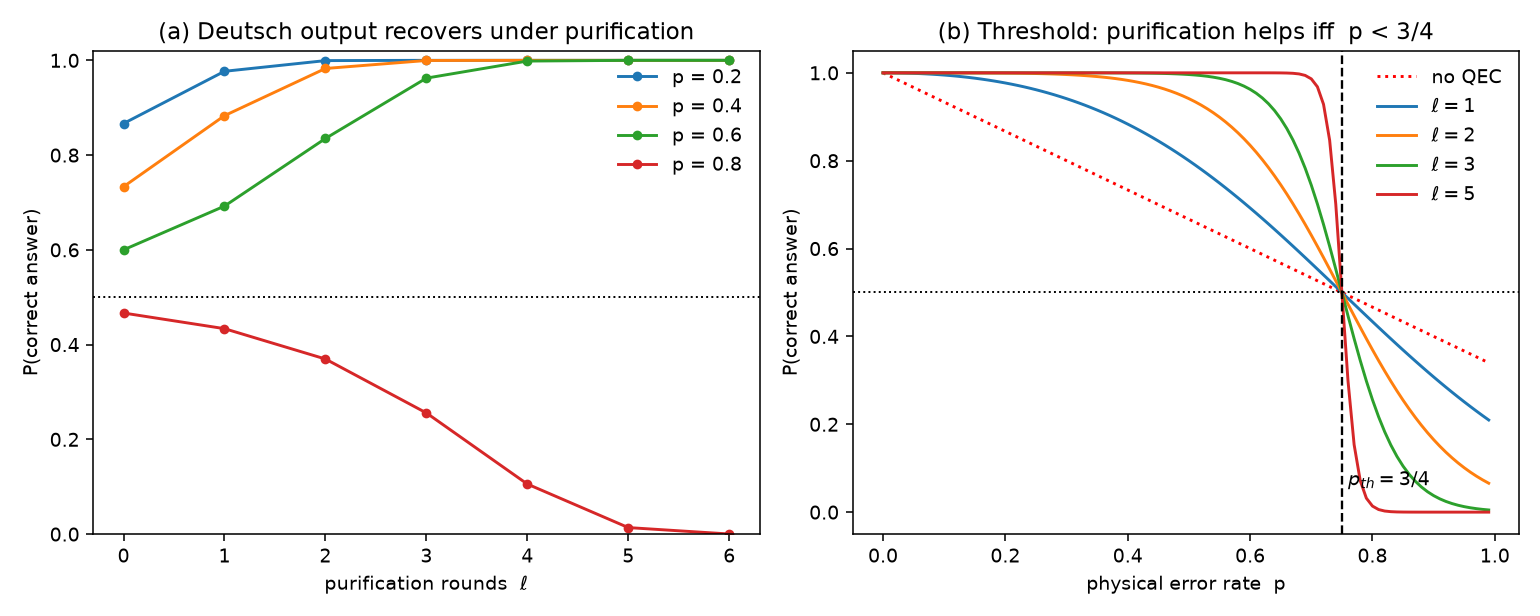
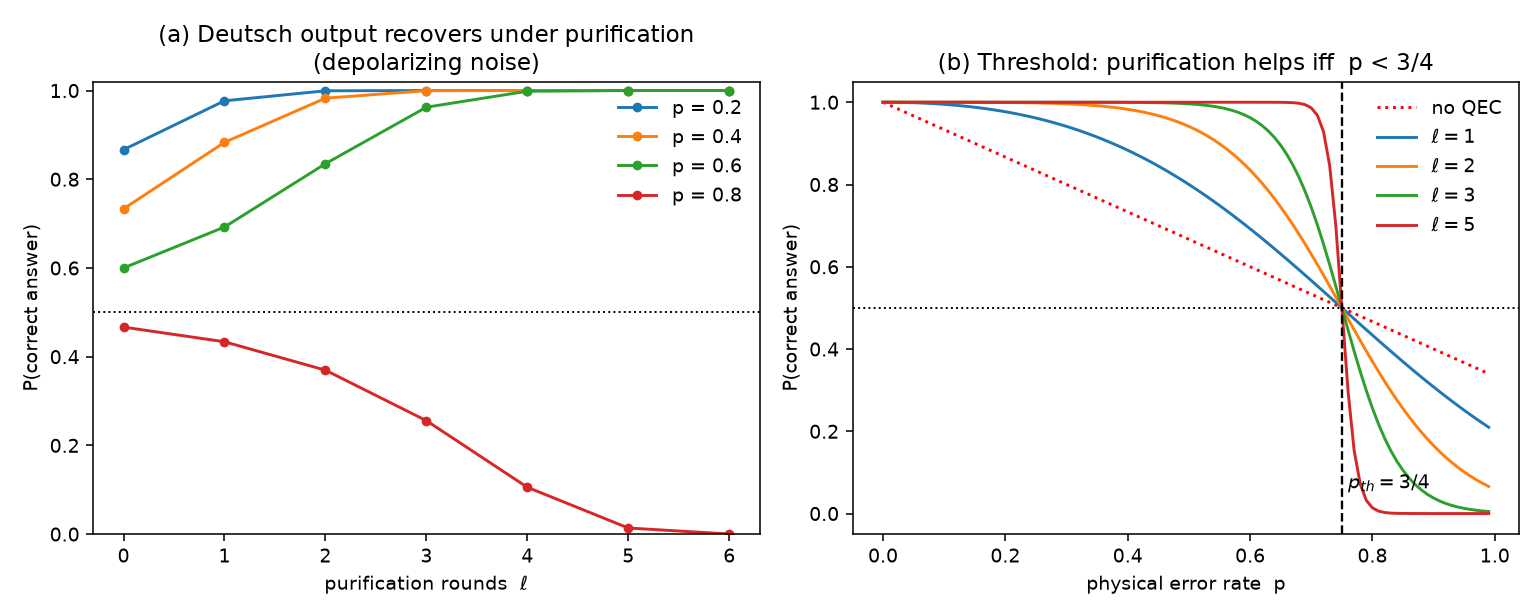
Add bit-flip PQEC demo for the Deutsch algorithm (threshold 1/2)
Parametrize deutsch_pqec.py by the output-qubit noise channel via run_demo()
(default depolarizing, p_th=3/4, output unchanged). Add deutsch_pqec_bitflip.py
which reuses it with a bit-flip channel: the answer stays the dominant
eigenvector while p<1/2, so purification recovers P(correct) 0.70 -> 1.000 and
the measured threshold is 0.500. Update README and PROGRESS with the
channel/threshold comparison and the new figure.

diff --git a/deutsch_pqec.py b/deutsch_pqec.py
@@ -26,15 +26,18 @@ is below threshold the *correct* answer is still the dominant eigenvector, so
 purifying the output drives the success probability back toward 1 -- without
 the algorithm ever knowing which answer is correct.
 
-For the local depolarizing channel the threshold is p = 3/4, identical to the
-elementary PQEC gadget in the parent paper: below it purification helps, above
-it purification amplifies the *wrong* answer.
+The threshold depends on the channel:
 
-We reuse the genuine PennyLane SWAP-gadget circuit from pqec.py to perform the
-purification rounds, so the whole pipeline -- noisy algorithm + error
-correction -- is a real mixed-state simulation, not an algebraic shortcut.
+  * local depolarizing on the output qubit ->  p_th = 3/4
+  * bit-flip on the output qubit           ->  p_th = 1/2   (deutsch_pqec_bitflip.py)
 
-Run:  python deutsch_pqec.py
+The whole pipeline (noisy algorithm + purification) reuses the genuine
+PennyLane SWAP-gadget circuit from pqec.py, so it is a real mixed-state
+simulation, not an algebraic shortcut.  The demo below is parametrized by the
+noise channel so it can be reused for both cases.
+
+Run:  python deutsch_pqec.py            # depolarizing, threshold 3/4
+      python deutsch_pqec_bitflip.py    # bit-flip,     threshold 1/2
 """
 
 import numpy as np
@@ -42,8 +45,6 @@ import matplotlib.pyplot as plt
 import pennylane as qml
 
 from pqec import swap_gadget, purity
-
-np.set_printoptions(precision=4, suppress=True)
 
 
 # ---------------------------------------------------------------------------
@@ -91,16 +92,20 @@ _dev = qml.device("default.mixed", wires=2)
 
 
 @qml.qnode(_dev)
-def _deutsch_query_rho(oracle, p_noise):
-    """Run the Deutsch algorithm with a depolarizing channel of strength
-    p_noise on the query qubit, and return the query qubit's 2x2 density
-    matrix (the reduced state we read the answer from)."""
+def deutsch_query_rho(oracle, p_noise, channel=qml.DepolarizingChannel):
+    """Run the Deutsch algorithm with a single-qubit noise `channel` of strength
+    p_noise on the output query qubit, and return that qubit's 2x2 density
+    matrix (the reduced state we read the answer from).
+
+    `channel` is any PennyLane single-qubit channel with signature
+    (p, wires=...):  qml.DepolarizingChannel (default) or qml.BitFlip.
+    """
     qml.PauliX(wires=1)          # ancilla -> |1>
     qml.Hadamard(wires=0)        # query   -> |+>
     qml.Hadamard(wires=1)        # ancilla -> |->
     oracle(0, 1)                 # apply U_f
     qml.Hadamard(wires=0)        # final interference on the query qubit
-    qml.DepolarizingChannel(p_noise, wires=0)   # gate/readout noise on output
+    channel(p_noise, wires=0)    # gate/readout noise on the output qubit
     return qml.density_matrix(wires=0)
 
 
@@ -129,96 +134,103 @@ def purify_rounds_circuit(rho, ell):
 
 
 # ===========================================================================
-print("=" * 74)
-print(" PART 1 -- Noiseless Deutsch algorithm classifies all four oracles")
-print("=" * 74)
-for name, (oracle, kind) in ORACLES.items():
-    rho = _deutsch_query_rho(oracle, 0.0)
-    bit = int(np.argmax(np.real(np.diag(rho))))
-    ok = "OK" if bit == ANSWER_BIT[kind] else "FAIL"
-    print(f"  {name:16s}  ->  measured bit {bit}  ({kind:8s})  [{ok}]")
-print("  -> query bit 0 = constant, 1 = balanced, each read with certainty.")
-
-
+# Parametrized demo -- reused for depolarizing (3/4) and bit-flip (1/2).
 # ===========================================================================
-print("\n" + "=" * 74)
-print(" PART 2 -- Noise degrades the answer; PQEC purification restores it")
-print("=" * 74)
+def run_demo(channel=qml.DepolarizingChannel, channel_name="depolarizing",
+             p_th=0.75, p_th_label="3/4", p_example=0.30,
+             outfile="deutsch_pqec.png"):
+    print("=" * 74)
+    print(f" PART 1 -- Noiseless Deutsch algorithm classifies all four oracles")
+    print("=" * 74)
+    for name, (oracle, kind) in ORACLES.items():
+        rho = deutsch_query_rho(oracle, 0.0, channel)
+        bit = int(np.argmax(np.real(np.diag(rho))))
+        ok = "OK" if bit == ANSWER_BIT[kind] else "FAIL"
+        print(f"  {name:16s}  ->  measured bit {bit}  ({kind:8s})  [{ok}]")
+    print("  -> query bit 0 = constant, 1 = balanced, each read with certainty.")
 
-# Use the balanced f=x oracle as the running example.  Its ideal output is |1>.
-oracle, kind = ORACLES["balanced  f=x"]
-p_noise = 0.30
-rho_noisy = _deutsch_query_rho(oracle, p_noise)
+    # -----------------------------------------------------------------------
+    print("\n" + "=" * 74)
+    print(" PART 2 -- Noise degrades the answer; PQEC purification restores it")
+    print("=" * 74)
 
-print(f"\n  Oracle: balanced f=x   depolarizing p = {p_noise}")
-print(f"  noisy output query qubit rho =\n{rho_noisy}")
-print(f"    purity(rho)          = {purity(rho_noisy):.4f}")
-print(f"    P(correct = '1')     = {success_prob(rho_noisy, kind):.4f}   (no QEC)")
+    oracle, kind = ORACLES["balanced  f=x"]   # ideal output |1>
+    rho_noisy = deutsch_query_rho(oracle, p_example, channel)
 
-print("\n  Applying PQEC purification rounds (genuine SWAP-gadget circuit):")
-rho = rho_noisy
-for ell in range(1, 5):
-    rho = purify_once(rho)
-    print(f"    after ell = {ell}:  purity = {purity(rho):.4f}   "
-          f"P(correct) = {success_prob(rho, kind):.4f}")
-print("  -> below threshold, purification drives the success probability -> 1.")
+    print(f"\n  Oracle: balanced f=x   {channel_name} p = {p_example}")
+    print(f"  noisy output query qubit rho =\n{rho_noisy}")
+    print(f"    purity(rho)          = {purity(rho_noisy):.4f}")
+    print(f"    P(correct = '1')     = {success_prob(rho_noisy, kind):.4f}   (no QEC)")
+
+    print("\n  Applying PQEC purification rounds (genuine SWAP-gadget circuit):")
+    rho = rho_noisy
+    for ell in range(1, 5):
+        rho = purify_once(rho)
+        print(f"    after ell = {ell}:  purity = {purity(rho):.4f}   "
+              f"P(correct) = {success_prob(rho, kind):.4f}")
+    print("  -> below threshold, purification drives the success probability -> 1.")
+
+    # -----------------------------------------------------------------------
+    print("\n" + "=" * 74)
+    print(f" PART 3 -- Threshold: purification helps iff p < {p_th_label} ({channel_name})")
+    print("=" * 74)
+
+    ps = np.linspace(0.0, 0.99, 100)
+    curves = {}
+    for ell in [0, 1, 2, 3, 5]:
+        succ = []
+        for p in ps:
+            r = deutsch_query_rho(oracle, p, channel)
+            r = purify_rounds_circuit(r, ell)
+            succ.append(success_prob(r, kind))
+        curves[ell] = np.array(succ)
+
+    # Crossing of the ell=1 and ell=3 curves = empirical threshold (skip the
+    # p~0 region where all curves coincide at 1).
+    mask = ps > 0.4
+    i = int(np.argmin(np.abs(curves[1] - curves[3])[mask]) + np.sum(~mask))
+    print(f"\n  measured threshold (ell=1 vs ell=3 crossing): p ~= {ps[i]:.3f}"
+          f"   (theory: {p_th})")
+
+    # ---- Figure ----------------------------------------------------------
+    fig, axes = plt.subplots(1, 2, figsize=(11, 4.4))
+
+    # (a) success probability vs cumulative rounds at fixed noise
+    ax = axes[0]
+    for p in [0.2, 0.4, 0.6, 0.8]:
+        r = deutsch_query_rho(oracle, p, channel)
+        succ = [success_prob(r, kind)]
+        for _ in range(6):
+            r = purify_once(r)
+            succ.append(success_prob(r, kind))
+        ax.plot(range(7), succ, "-o", ms=4, label=f"p = {p}")
+    ax.axhline(0.5, color="k", ls=":", lw=1)
+    ax.set_xlabel("purification rounds  $\\ell$")
+    ax.set_ylabel("P(correct answer)")
+    ax.set_title(f"(a) Deutsch output recovers under purification\n({channel_name} noise)")
+    ax.set_ylim(0.0, 1.02)
+    ax.legend(frameon=False)
+
+    # (b) success probability vs noise p, several depths -> cross at p_th
+    ax = axes[1]
+    for ell in [0, 1, 2, 3, 5]:
+        ax.plot(ps, curves[ell], ("r:" if ell == 0 else "-"),
+                label=("no QEC" if ell == 0 else f"$\\ell={ell}$"))
+    ax.axvline(p_th, color="k", ls="--", lw=1.2)
+    ax.text(p_th, 0.06, f" $p_{{th}}={p_th_label}$", fontsize=10)
+    ax.axhline(0.5, color="k", ls=":", lw=1)
+    ax.set_xlabel("physical error rate  p")
+    ax.set_ylabel("P(correct answer)")
+    ax.set_title(f"(b) Threshold: purification helps iff  p < {p_th_label}")
+    ax.legend(frameon=False)
+
+    fig.tight_layout()
+    fig.savefig(outfile, dpi=140)
+    print(f"\n  saved  {outfile}")
+    print("\nDone.")
+    return curves
 
 
-# ===========================================================================
-print("\n" + "=" * 74)
-print(" PART 3 -- Threshold: purification helps iff p < 3/4 (depolarizing)")
-print("=" * 74)
-
-ps = np.linspace(0.0, 0.99, 100)
-curves = {}
-for ell in [0, 1, 2, 3, 5]:
-    succ = []
-    for p in ps:
-        rho = _deutsch_query_rho(oracle, p)
-        rho = purify_rounds_circuit(rho, ell)
-        succ.append(success_prob(rho, kind))
-    curves[ell] = np.array(succ)
-
-# Locate the crossing of the ell=1 and ell=3 curves as an empirical threshold.
-i = int(np.argmin(np.abs(curves[1] - curves[3])[ps > 0.4]) + np.sum(ps <= 0.4))
-print(f"\n  measured threshold (ell=1 vs ell=3 crossing): p ~= {ps[i]:.3f}"
-      f"   (theory: 0.75)")
-
-
-# ---- Figure: success probability vs noise, for several purification depths --
-fig, axes = plt.subplots(1, 2, figsize=(11, 4.4))
-
-# (a) success probability vs cumulative rounds at fixed noise
-ax = axes[0]
-for p in [0.2, 0.4, 0.6, 0.8]:
-    rho = _deutsch_query_rho(oracle, p)
-    succ = [success_prob(rho, kind)]
-    r = rho
-    for _ in range(6):
-        r = purify_once(r)
-        succ.append(success_prob(r, kind))
-    ax.plot(range(7), succ, "-o", ms=4, label=f"p = {p}")
-ax.axhline(0.5, color="k", ls=":", lw=1)
-ax.set_xlabel("purification rounds  $\\ell$")
-ax.set_ylabel("P(correct answer)")
-ax.set_title("(a) Deutsch output recovers under purification")
-ax.set_ylim(0.0, 1.02)
-ax.legend(frameon=False)
-
-# (b) success probability vs noise p, for several fixed depths -> cross at 3/4
-ax = axes[1]
-for ell in [0, 1, 2, 3, 5]:
-    ax.plot(ps, curves[ell], ("r:" if ell == 0 else "-"),
-            label=("no QEC" if ell == 0 else f"$\\ell={ell}$"))
-ax.axvline(0.75, color="k", ls="--", lw=1.2)
-ax.text(0.75, 0.06, " $p_{th}=3/4$", fontsize=10)
-ax.axhline(0.5, color="k", ls=":", lw=1)
-ax.set_xlabel("physical error rate  p")
-ax.set_ylabel("P(correct answer)")
-ax.set_title("(b) Threshold: purification helps iff  p < 3/4")
-ax.legend(frameon=False)
-
-fig.tight_layout()
-fig.savefig("deutsch_pqec.png", dpi=140)
-print("\n  saved  deutsch_pqec.png")
-print("\nDone.")
+if __name__ == "__main__":
+    # Default: local depolarizing channel on the output qubit, threshold 3/4.
+    run_demo()

diff --git a/deutsch_pqec_bitflip.py b/deutsch_pqec_bitflip.py
@@ -1,0 +1,41 @@
+"""
+PQEC on the Deutsch algorithm under a BIT-FLIP noise channel.
+=============================================================
+
+Companion to deutsch_pqec.py (which uses a depolarizing channel).  Here the
+output query qubit is hit by a bit-flip channel
+
+    rho -> (1 - p) rho + p X rho X
+
+which flips the answer bit 0 <-> 1 with probability p.  Because the Deutsch
+answer is a *computational-basis* state (|0> = constant, |1> = balanced), the
+noisy state is diagonal in that basis,
+
+    rho = (1 - p) |ans><ans| + p |flip><flip|,
+
+so the correct answer stays the *dominant* eigenvector exactly while p < 1/2.
+The PQEC purification map rho -> rho^2/Tr[rho^2] then concentrates weight back
+onto it -- like a coherent majority vote -- driving P(correct) -> 1.
+
+Hence the threshold is p_th = 1/2 (not 3/4 as for depolarizing): below 1/2
+purification recovers the answer, above 1/2 it amplifies the flipped (wrong)
+answer.  Everything reuses the genuine SWAP-gadget circuit from pqec.py via
+run_demo() in deutsch_pqec.py.
+
+Run:  python deutsch_pqec_bitflip.py
+Produces deutsch_pqec_bitflip.png.
+"""
+
+import pennylane as qml
+
+from deutsch_pqec import run_demo
+
+if __name__ == "__main__":
+    run_demo(
+        channel=qml.BitFlip,
+        channel_name="bit-flip",
+        p_th=0.5,
+        p_th_label="1/2",
+        p_example=0.30,
+        outfile="deutsch_pqec_bitflip.png",
+    )

diff --git a/PROGRESS.md b/PROGRESS.md
@@ -38,8 +38,11 @@ Plugged the purification gadget into a real computation to show it corrects the
 output of an actual quantum algorithm, not just abstract density matrices.
 
 - **`deutsch_pqec.py`** — runs the 2-qubit Deutsch algorithm on the mixed-state
-  simulator with a depolarizing channel on the output query qubit, then purifies
-  that qubit with the genuine SWAP-gadget circuit from `pqec.py`.
+  simulator with a noise channel on the output query qubit, then purifies that
+  qubit with the genuine SWAP-gadget circuit from `pqec.py`. Parametrized by the
+  noise channel via `run_demo(...)`; default is depolarizing (`p_th=3/4`).
+- **`deutsch_pqec_bitflip.py`** — reuses `run_demo(...)` with a **bit-flip**
+  channel on the output qubit (`p_th=1/2`), saving `deutsch_pqec_bitflip.png`.
 - **`draw_deutsch_pqec.py`** — draws the full circuit for one purification
   round: two noisy Deutsch runs feeding a SWAP gadget between the two query
   qubits (`deutsch_pqec_circuit.png`).
@@ -56,12 +59,18 @@ knowledge of which answer is correct.
   with no noise.
 - At depolarizing p=0.30 the success probability recovers over purification
   rounds: `0.80 → 0.94 → 0.996 → 1.000` (ℓ = 0,1,2,3).
-- The same **p=3/4** threshold reappears: below it purification drives
-  P(correct) → 1, above it it amplifies the wrong answer → 0; all round-count
-  curves cross exactly at p=3/4 (measured 0.750).
+- The **threshold depends on the output-qubit noise channel**:
 
-Figures: `deutsch_pqec.png` (recovery + threshold), `deutsch_pqec_circuit.png`
-(full circuit).
+  | Channel      | Recovery (p=0.30)        | Measured `p_th` | Theory |
+  |--------------|--------------------------|-----------------|--------|
+  | Depolarizing | `0.80 → 1.000`           | 0.750           | 3/4    |
+  | Bit-flip     | `0.70 → 1.000`           | 0.500           | 1/2    |
+
+  Below threshold purification drives P(correct) → 1; above it, it amplifies the
+  wrong answer → 0. All round-count curves cross exactly at `p_th`.
+
+Figures: `deutsch_pqec.png`, `deutsch_pqec_bitflip.png` (recovery + threshold),
+`deutsch_pqec_circuit.png` (full circuit).
 
 ## How to run
 
@@ -69,13 +78,13 @@ Figures: `deutsch_pqec.png` (recovery + threshold), `deutsch_pqec_circuit.png`
 pip install -r requirements.txt
 python verify_pqec.py         # core equation checks + figures
 python draw_circuits.py       # gadget / binary-tree circuits
-python deutsch_pqec.py        # PQEC applied to the Deutsch algorithm
-python draw_deutsch_pqec.py   # full Deutsch + PQEC circuit diagram
+python deutsch_pqec.py         # PQEC on Deutsch, depolarizing noise (p_th=3/4)
+python deutsch_pqec_bitflip.py # PQEC on Deutsch, bit-flip noise    (p_th=1/2)
+python draw_deutsch_pqec.py    # full Deutsch + PQEC circuit diagram
 ```
 
 ## Possible next steps
 
-- Dephasing version of the Deutsch demo (threshold p=1/2).
 - ℓ=2 binary-tree variant that actually consumes N=2^ℓ fresh copies per output.
 - Extend to a slightly larger algorithm (e.g. 2-bit Deutsch–Jozsa) with a
   multi-qubit SWAP gadget.

diff --git a/README.md b/README.md
@@ -29,7 +29,9 @@ precision, then reproduces the error-correction and threshold behaviour.
 | [`pqec.py`](pqec.py) | Core library: SWAP gadget as an explicit `default.mixed` circuit (H–CSWAP–H), purification map, noise channels, fidelity helpers |
 | [`verify_pqec.py`](verify_pqec.py) | Verifies Eqs. (5)–(10), (7), (34); reproduces fidelity-vs-rounds and error thresholds; saves figures |
 | [`draw_circuits.py`](draw_circuits.py) | Draws the full quantum circuits (Figs. 1 & 2) |
-| [`deutsch_pqec.py`](deutsch_pqec.py) | **Applies PQEC to a real algorithm** — purifies the noisy output of the 2-qubit Deutsch algorithm and restores the answer |
+| [`deutsch_pqec.py`](deutsch_pqec.py) | **Applies PQEC to a real algorithm** — purifies the noisy output of the 2-qubit Deutsch algorithm and restores the answer (depolarizing, `p_th=3/4`) |
+| [`deutsch_pqec_bitflip.py`](deutsch_pqec_bitflip.py) | Same demo under a **bit-flip** channel on the output qubit (`p_th=1/2`) |
+| [`draw_deutsch_pqec.py`](draw_deutsch_pqec.py) | Draws the full Deutsch + one-round PQEC circuit |
 
 ## Setup & run
 
@@ -40,8 +42,9 @@ pip install -r requirements.txt
 
 python verify_pqec.py     # numerical checks + result figures
 python draw_circuits.py   # circuit diagrams
-python deutsch_pqec.py    # PQEC applied to the Deutsch algorithm
-python draw_deutsch_pqec.py   # full Deutsch + PQEC circuit diagram
+python deutsch_pqec.py         # PQEC on Deutsch, depolarizing noise (p_th=3/4)
+python deutsch_pqec_bitflip.py # PQEC on Deutsch, bit-flip noise    (p_th=1/2)
+python draw_deutsch_pqec.py    # full Deutsch + PQEC circuit diagram
 ```
 
 ## Applying PQEC to an algorithm: the Deutsch algorithm
@@ -71,6 +74,23 @@ two Deutsch runs (each `X·H·H·U_f·H·noise`) feeding a SWAP gadget
 (`H–CSWAP–H–measure`) between the two query qubits:
 
 ![Deutsch + PQEC circuit](deutsch_pqec_circuit.png)
+
+### Different noise → different threshold
+
+The output qubit carries the answer as a *computational-basis* state, so the
+threshold depends on the noise channel. `deutsch_pqec.py` is parametrized by the
+channel; [`deutsch_pqec_bitflip.py`](deutsch_pqec_bitflip.py) reuses it with a
+**bit-flip** channel `ρ → (1−p)ρ + p·XρX`, which flips the answer bit `0↔1`. The
+noisy state stays diagonal in the answer basis with the correct answer as the
+dominant eigenvector while `p < 1/2`, so purification (a coherent majority vote)
+recovers it — `P(correct) = 0.70 → 0.84 → 0.97 → 0.999 → 1.000` at `p=0.30`.
+
+| Channel on output qubit | Recovery below threshold | Measured `p_th` | Theory |
+|-------------------------|--------------------------|-----------------|--------|
+| Depolarizing            | `0.80 → 1.000`           | **0.750**       | 3/4    |
+| Bit-flip                | `0.70 → 1.000`           | **0.500**       | 1/2    |
+
+![Deutsch + PQEC, bit-flip](deutsch_pqec_bitflip.png)
 
 ## What is verified
 